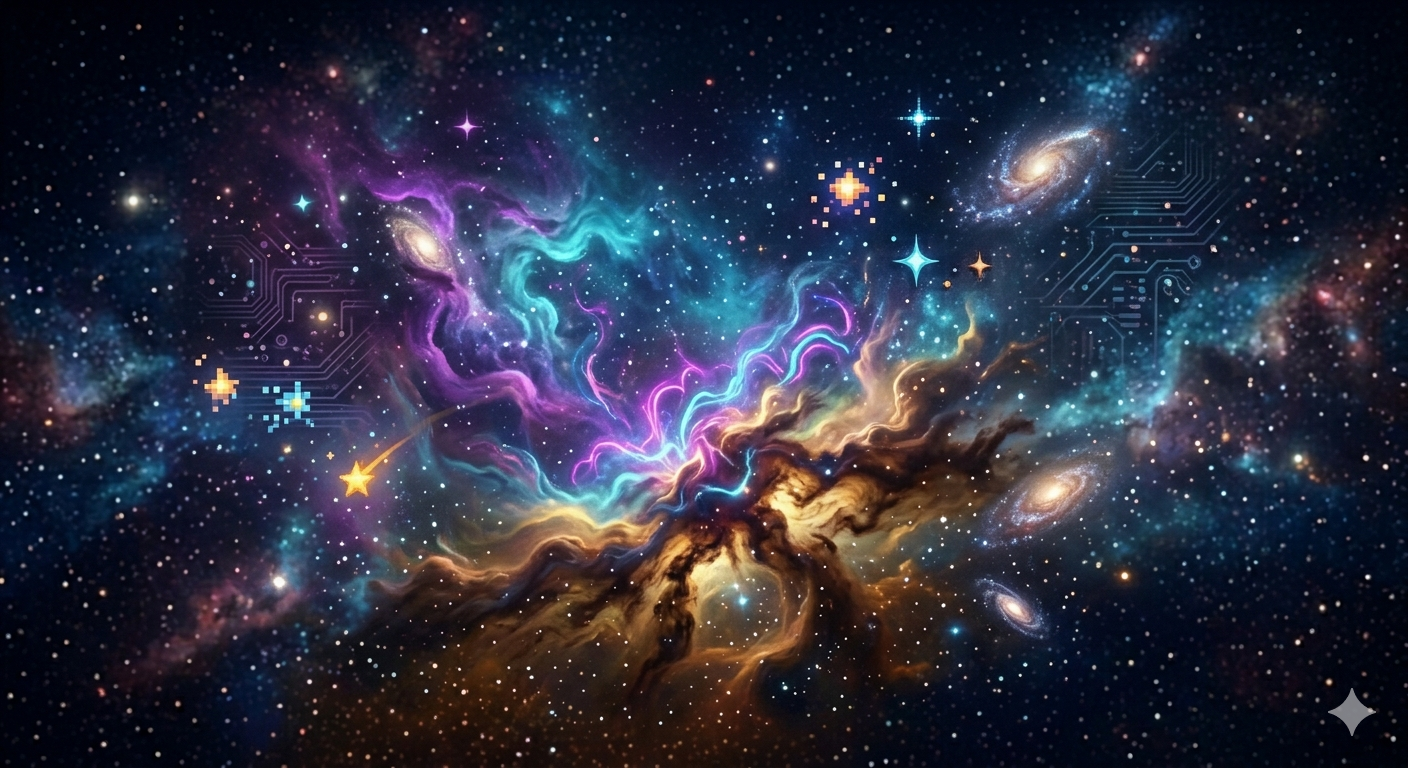
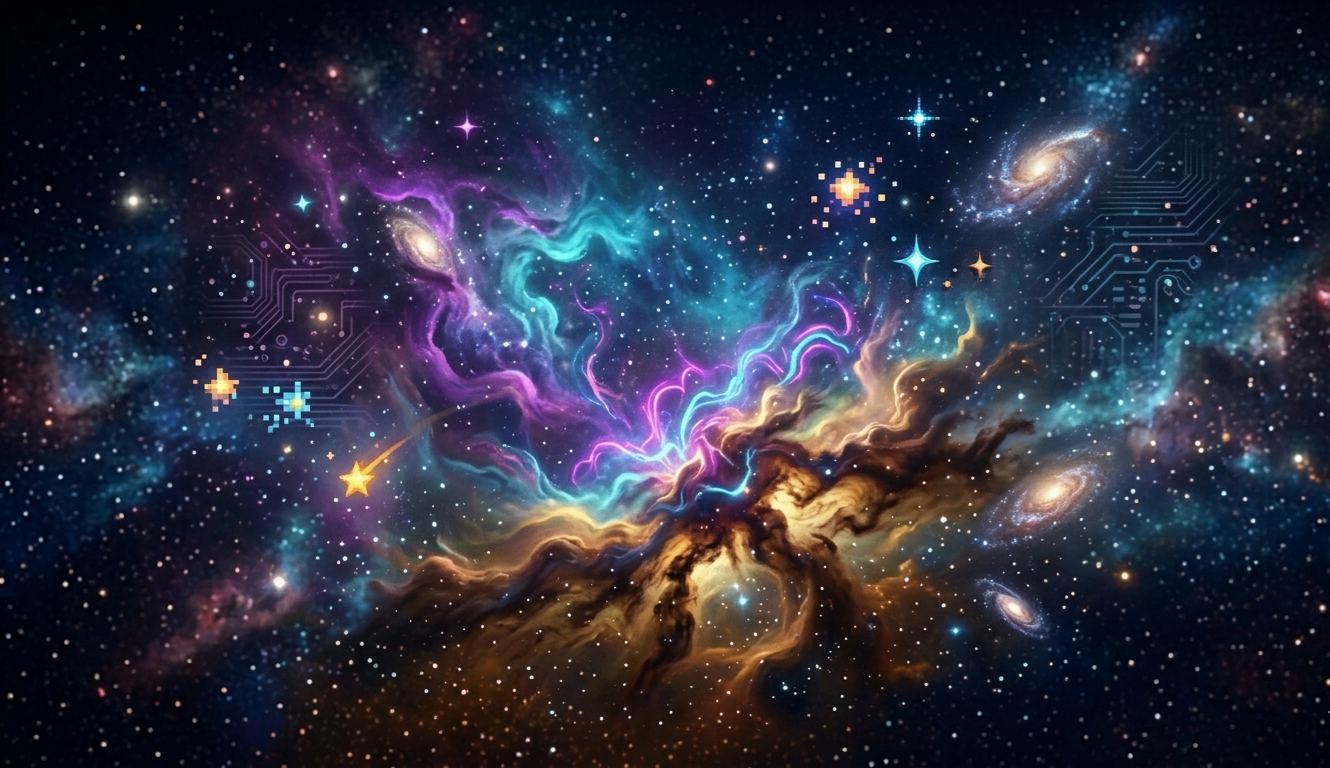
Add the final report and corect jar

diff --git a/README.md b/README.md
@@ -1,4 +1,34 @@
-# Sample Gradle Project
+# SpaceJava
 
-This is a repository that can be used as a base to develop an OOP project.
-The tools seen in the lab are pre-integrated in the build file.
+SpaceJava è un semplice videogioco arcade in stile space shooter sviluppato in Java con Gradle.
+Il progetto è stato realizzato per mettere in pratica concetti di programmazione orientata agli oggetti, modelli MVC, gestione dello stato del gioco e rendering grafico con Swing.
+
+## Obiettivo del progetto
+
+Il giocatore controlla una navicella e deve difendersi dagli attacchi dei nemici, sconfiggerli, accumulare punti e sbloccare nuove skin.
+
+## Funzionalità principali
+
+- Movimento e controllo della navicella del giocatore
+- Proiettili del giocatore e dei nemici
+- Nemici con diversi comportamenti e livelli di difficoltà
+- Bunker protettivi
+- Sistema di punteggio e record
+- Shop per sbloccare e selezionare skin
+- Menu iniziale, schermata game over e power-up
+- Supporto alla build con Gradle e alla creazione di un jar eseguibile
+
+## Tecnologie utilizzate
+
+- Java
+- Gradle
+- Swing per l'interfaccia grafica
+- JUnit 5 per i test
+
+## Autori
+Questo progetto e stato ralizato da 4 studenti che hanno frequentato il corso di OOP del coros di laura ISI del campus di Cesena.
+I patecipanti a queto progetto sono:
+- Andrea Ricci
+- Alessandro Tomè
+- Luckas Magalotti
+- Enes Sela